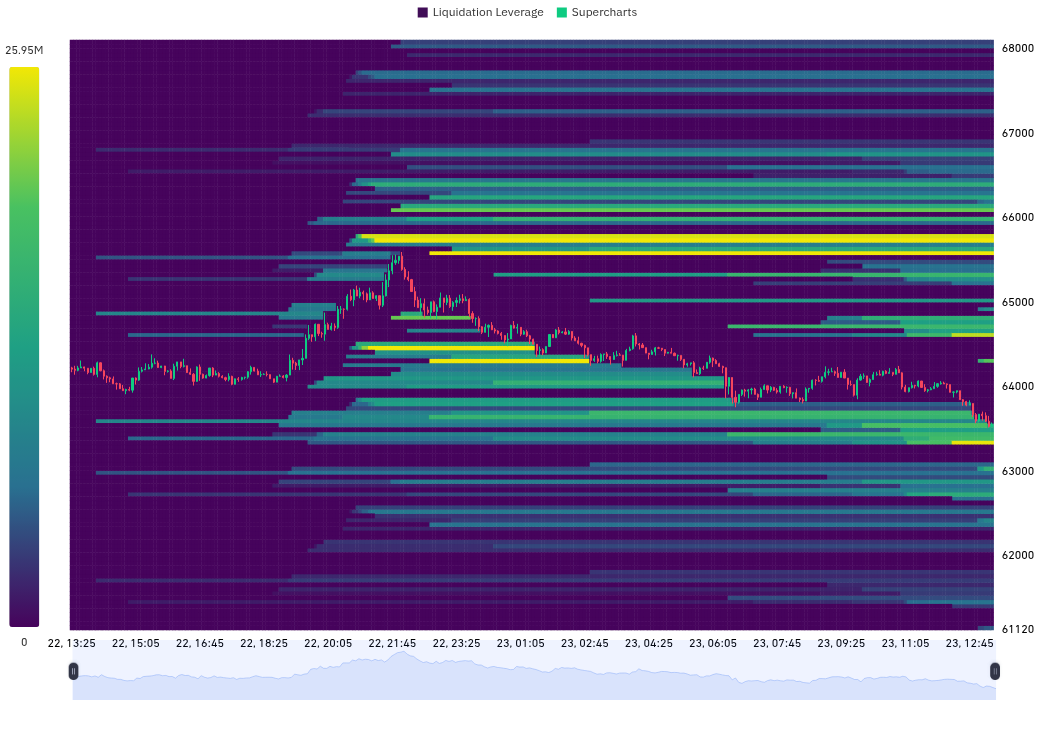
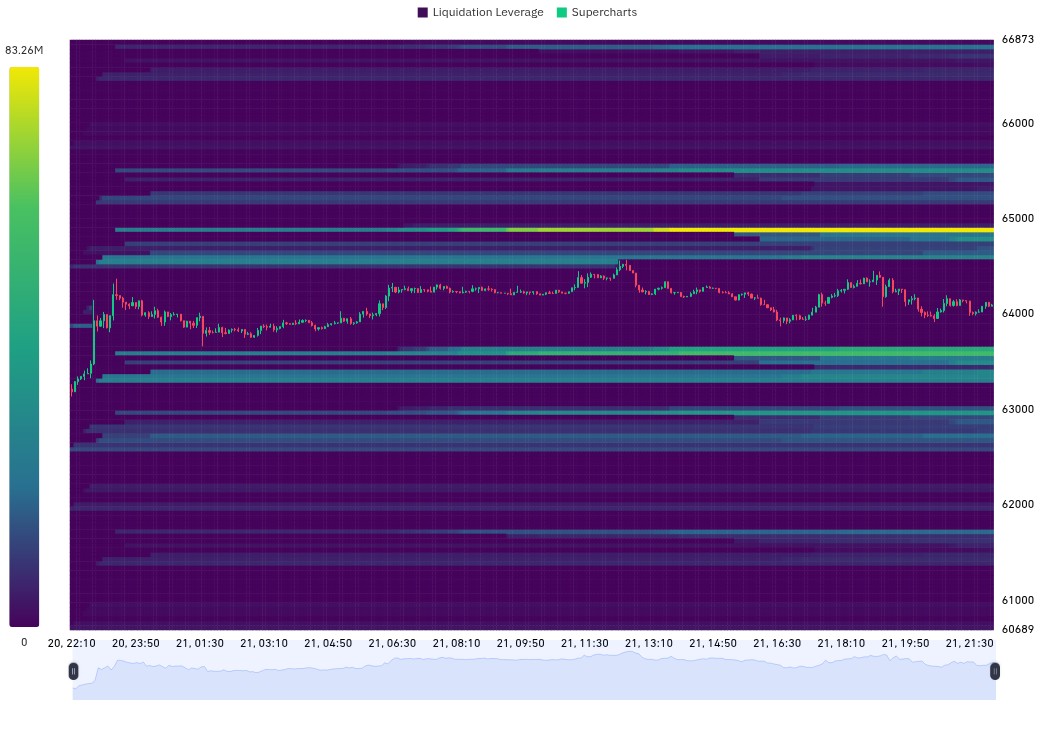
Fix: responsive breakpoints, sync source files, clean stale artifacts

diff --git a/assets/styles.css b/assets/styles.css
@@ -694,15 +694,86 @@ body.simple-mode #ta-section {
 .layer:nth-child(4) { animation-delay: 0.15s; }
 .layer:nth-child(5) { animation-delay: 0.2s; }
 
-/* Responsive */
+/* Responsive — 768px tablets */
+@media (max-width: 768px) {
+  body { padding: 10px; font-size: 15px; }
+  .hero h1 { font-size: 2em; }
+  .feature-grid { grid-template-columns: 1fr; }
+  .comparison-table { font-size: 0.8em; }
+  .comparison-table th, .comparison-table td { padding: 8px 10px; }
+  .site-footer-inner { grid-template-columns: 1fr 1fr; }
+}
+
+/* Responsive — 600px small tablets */
 @media (max-width: 600px) {
   .gate-modules { grid-template-columns: repeat(2, 1fr); }
   .layer-grid { grid-template-columns: 1fr; }
   .header { flex-direction: column; gap: 8px; text-align: center; }
   .regime-verdict { font-size: 1.6em; }
   .header .btc-price { font-size: 1.4em; }
+  .card-grid { grid-template-columns: 1fr; }
+  .research-grid { grid-template-columns: 1fr; }
+  .newsletter-form { flex-direction: column; }
+  .newsletter-form input { min-height: 44px; }
+  .newsletter-form button { min-height: 44px; }
+  .cta-button { min-height: 44px; display: inline-flex; align-items: center; justify-content: center; }
+  .mode-btn { min-height: 44px; padding: 10px 16px; }
+  .heatmap-img { max-height: 300px; object-fit: contain; }
+  .sr-table { display: block; overflow-x: auto; -webkit-overflow-scrolling: touch; }
+  .verdict-table { display: block; overflow-x: auto; -webkit-overflow-scrolling: touch; }
 }
 
+/* Responsive — 480px mobile (PRIORITY: dashboard cards) */
+@media (max-width: 480px) {
+  body { padding: 8px; font-size: 15px; line-height: 1.5; }
+  .layer-grid { grid-template-columns: 1fr; gap: 12px; }
+  .layer-grid .card { padding: 14px; border-radius: 12px; }
+  .layer-grid .card-title { font-size: 0.82em; margin-bottom: 10px; }
+  .metric-label { font-size: 0.88em; }
+  .metric-value { font-size: 0.88em; }
+  .metric-row { padding: 8px 0; }
+  .header { padding: 10px 0; margin-bottom: 16px; }
+  .header h1 { font-size: 1.2em; }
+  .header .btc-price { font-size: 1.3em; }
+  .regime-summary { padding: 16px; margin: 16px 0; border-radius: 14px; }
+  .regime-verdict { font-size: 1.4em; }
+  .regime-detail { font-size: 0.82em; }
+  .layer-header { gap: 8px; margin-bottom: 10px; padding-bottom: 8px; }
+  .layer-num { width: 26px; height: 26px; font-size: 0.7em; }
+  .layer-title { font-size: 1em; }
+  .layer-subtitle { font-size: 0.72em; margin-left: 8px; }
+  .gate-modules { grid-template-columns: 1fr 1fr; gap: 8px; }
+  .gate-module { padding: 10px; }
+  .gate-module .label { font-size: 0.65em; }
+  .gate-module .value { font-size: 0.82em; }
+  .session-clocks { gap: 4px; }
+  .clock-item { padding: 6px 8px; min-width: 56px; }
+  .clock-item .clock-city { font-size: 0.55em; }
+  .clock-item .clock-time { font-size: 0.82em; }
+  .card-grid { grid-template-columns: 1fr; gap: 12px; }
+  .card-grid .card { padding: 14px; }
+  .magnet-bar { font-size: 0.78em; }
+  .magnet-bar .price { min-width: 60px; font-size: 0.88em; }
+  .magnet-bar .pct { min-width: 45px; font-size: 0.82em; }
+  .vp-row { font-size: 0.65em; }
+  .vp-price { width: 52px; }
+  .vp-vol { width: 35px; }
+  .oi-chart { height: 60px; }
+  .val-alert, .brk-alert { padding: 12px 14px; border-radius: 10px; }
+  .val-alert-header, .brk-alert-header { gap: 6px; margin-bottom: 8px; }
+  .val-alert-title, .brk-alert-title { font-size: 0.78em; }
+  .val-alert-detail, .brk-alert-detail { font-size: 0.75em; }
+  .val-alert-meta, .brk-alert-meta { gap: 8px; font-size: 0.68em; }
+  .brk-level-tag, .brd-level-tag { font-size: 0.68em; padding: 2px 6px; }
+  .hero { padding: 32px 16px 24px; }
+  .hero h1 { font-size: 1.7em; }
+  .hero p { font-size: 1em; }
+  .section-header { margin: 40px auto 24px; }
+  .section-header h2 { font-size: 1.4em; }
+  .feature-card { padding: 20px; }
+  .page-container { padding: 24px 16px; }
+  .page-container-wide { padding: 24px 16px; }
+}
 
 /* ═══ Multi-Page Site Components ═══ */
 

diff --git a/index.html b/index.html
@@ -304,9 +304,11 @@ async function loadVerdict() {
       }
       
       const s90 = tdata.signals?.trailing_90d || {};
-      const total = s90.wins + s90.losses;
+      const wins = s90.wins || 0;
+      const losses = s90.losses || 0;
+      const total = wins + losses;
       if (total > 0) {
-        document.getElementById('track-signals-90d').textContent = ((s90.wins / total) * 100).toFixed(1) + '%';
+        document.getElementById('track-signals-90d').textContent = ((wins / total) * 100).toFixed(1) + '%';
       } else {
         document.getElementById('track-signals-90d').textContent = '75.0%'; // placeholder for initial launch
       }

diff --git a/scripts/fetch_options_full.py b/scripts/fetch_options_full.py
@@ -20,42 +20,42 @@ def parse_metrics(text):
                 try:
                     result["put_volume_24h"] = float(lines[j].strip().replace(',',''))
                     break
-                except: pass
+                except Exception: pass
         
         if "Call Volume:" in line:
             for j in range(i+1, min(i+5, len(lines))):
                 try:
                     result["call_volume_24h"] = float(lines[j].strip().replace(',',''))
                     break
-                except: pass
+                except Exception: pass
         
         if "Put/Call Ratio:" in line and "Volume" not in lines[i-1] if i>0 else True:
             for j in range(i+1, min(i+5, len(lines))):
                 try:
                     result["pcr_volume"] = float(lines[j].strip())
                     break
-                except: pass
+                except Exception: pass
         
         if "Call Open Interest" in line:
             for j in range(i+1, min(i+3, len(lines))):
                 try:
                     result["call_oi"] = float(lines[j].strip().replace(',',''))
                     break
-                except: pass
+                except Exception: pass
         
         if "Put Open Interest" in line and "Call" not in lines[i-1] if i>0 else True:
             for j in range(i+1, min(i+3, len(lines))):
                 try:
                     result["put_oi"] = float(lines[j].strip().replace(',',''))
                     break
-                except: pass
+                except Exception: pass
         
         if "Total Open Interest" in line:
             for j in range(i+1, min(i+3, len(lines))):
                 try:
                     result["total_oi"] = float(lines[j].strip().replace(',',''))
                     break
-                except: pass
+                except Exception: pass
         
         if "Notional Value" in line:
             for j in range(i+1, min(i+3, len(lines))):
@@ -63,7 +63,7 @@ def parse_metrics(text):
                 try:
                     result["notional_value"] = float(val)
                     break
-                except: pass
+                except Exception: pass
     
     # Compute PCR
     if "call_oi" in result and "put_oi" in result and result["call_oi"] > 0:
@@ -91,7 +91,7 @@ def main():
             if age < 7200:  # 2 hours
                 print(f"[CACHE] {age/3600:.1f}h old, skipping")
                 return
-    except: pass
+    except Exception: pass
     
     print(f"[FETCH] {url}")
     with sync_playwright() as p:

diff --git a/scripts/producers/pipeline.py b/scripts/producers/pipeline.py
@@ -113,7 +113,7 @@ def check_black_swan_indicators():
         elif vix > 28:
             indicators["vix_spike"] = True
             severity = max(severity, 1)
-    except: pass
+    except Exception: pass
 
     try:
         with open("/tmp/btc_macro_state.json") as f:
@@ -122,7 +122,7 @@ def check_black_swan_indicators():
         if dxy and dxy < 95:
             indicators["dxy_flash"] = True
             severity += 1
-    except: pass
+    except Exception: pass
 
     try:
         st = "/tmp/btc_stablecoin_state.json"
@@ -132,7 +132,7 @@ def check_black_swan_indicators():
             if stable and stable.get("status") == "depeg risk":
                 indicators["stablecoin_stress"] = True
                 severity += 2
-    except: pass
+    except Exception: pass
 
     try:
         with open("/tmp/btc_onchain_state.json") as f:
@@ -141,7 +141,7 @@ def check_black_swan_indicators():
         if netflow and abs(netflow) > 10000:
             indicators["exchange_anomaly"] = True
             severity += 1
-    except: pass
+    except Exception: pass
 
     if severity >= 3: status = "critical"
     elif severity >= 1: status = "elevated"

diff --git a/collect.py b/collect.py
@@ -1888,7 +1888,7 @@ def detect_breakout_retest(btc, structural, derivatives):
     try:
         with open(state_file, 'r') as f:
             zones = json.load(f)
-    except:
+    except Exception:
         zones = {"active": [], "history": []}
 
     now = datetime.now(timezone.utc)
@@ -2110,7 +2110,7 @@ def detect_breakdown_retest(btc, structural, derivatives):
     try:
         with open(state_file, 'r') as f:
             zones = json.load(f)
-    except:
+    except Exception:
         zones = {"active": [], "history": []}
 
     now = datetime.now(timezone.utc)

diff --git a/detect_only.py b/detect_only.py
@@ -34,7 +34,7 @@ def read_json(path):
     try:
         with open(path) as f:
             return json.load(f)
-    except:
+    except Exception:
         return None
 
 
@@ -101,7 +101,7 @@ def track_outcomes():
         # Parse timestamp
         try:
             sig_time = datetime.strptime(sig["timestamp"], "%Y-%m-%d %H:%M UTC").replace(tzinfo=timezone.utc)
-        except:
+        except Exception:
             continue
 
         # Expired after 48h

diff --git a/scripts/fetch_cot.py b/scripts/fetch_cot.py
@@ -40,7 +40,7 @@ def parse_cot(text):
                 if all(100 < abs(p) < 1000000 for p in parsed):
                     commitment_line = parsed
                     break
-            except:
+            except Exception:
                 continue
     
     if commitment_line:
@@ -104,7 +104,7 @@ def main():
             if age < 43200:
                 print(f"[CACHE] {age/3600:.1f}h old, skipping")
                 return
-    except:
+    except Exception:
         pass
     
     print(f"[FETCH] {url}")

diff --git a/scripts/fetch_gamma.py b/scripts/fetch_gamma.py
@@ -23,7 +23,7 @@ def get_ticker_oi(name):
             "strike": result.get("index_price", 0),
             "mark_iv": result.get("mark_iv", 0)
         }
-    except:
+    except Exception:
         return {"name": name, "oi": 0}
 
 def main():
@@ -38,7 +38,7 @@ def main():
                 if not data.get("error"):
                     print(f"[CACHE] {age/3600:.1f}h old: Call wall ${data.get('call_wall','?')}, Put wall ${data.get('put_wall','?')}")
                     return
-    except: pass
+    except Exception: pass
     
     print("[FETCH] Deribit gamma walls...")
     

diff --git a/scripts/fetch_skew.py b/scripts/fetch_skew.py
@@ -57,7 +57,7 @@ def fetch():
                     "iv": r.get("mark_iv"),
                     "spot": r.get("underlying_price"),
                 }
-            except:
+            except Exception:
                 return None
 
         with ThreadPoolExecutor(max_workers=10) as ex: